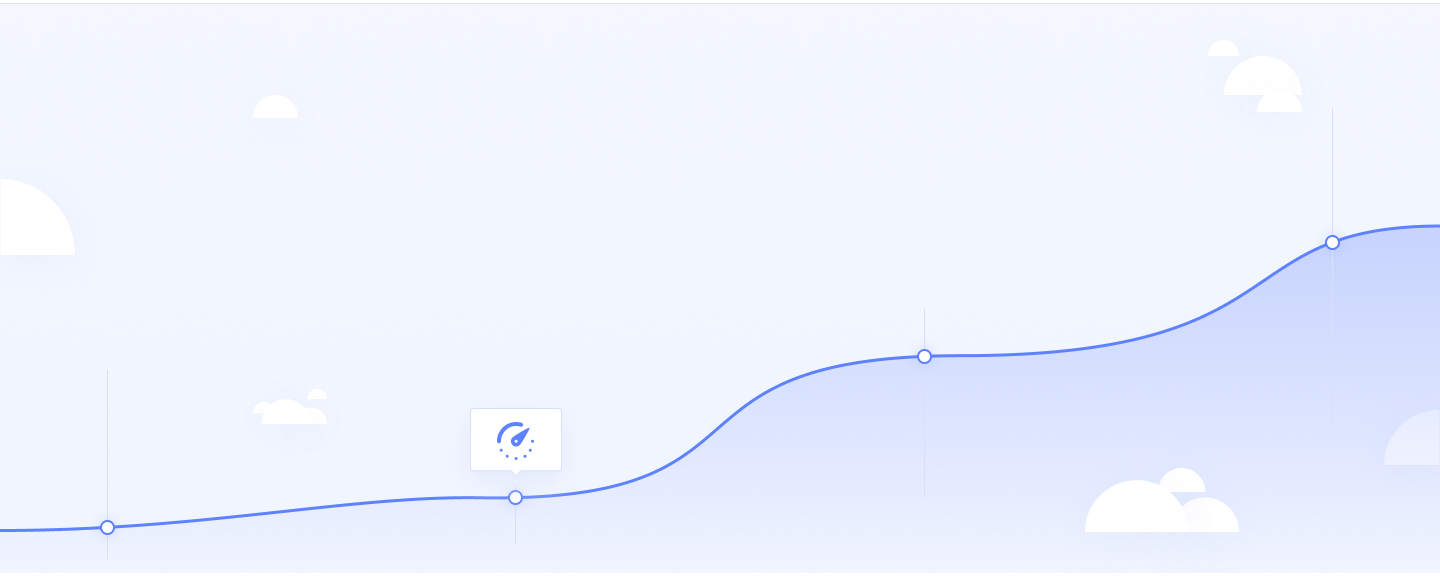
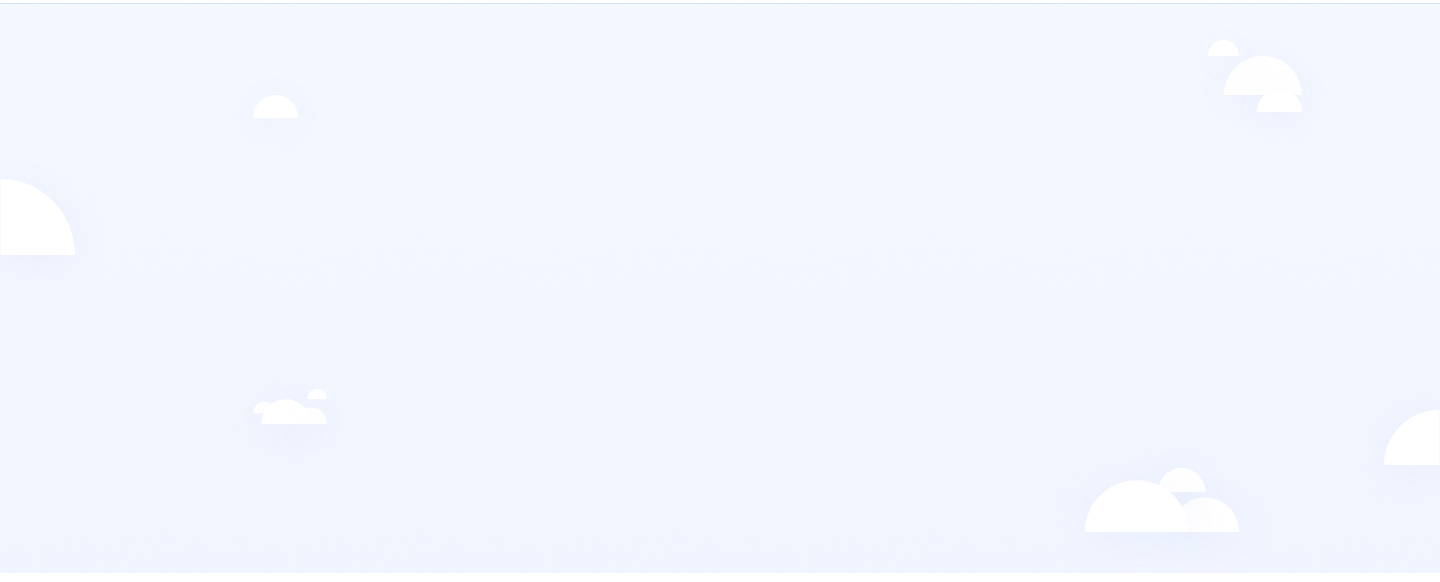
Done the stylization of advantages section

diff --git a/index.html b/index.html
@@ -59,30 +59,43 @@
         <a href="#" class="header__start-button button">Get started</a>
     </header>
     <main>
-        <section class="advantages">
-            <ul class="advantages__slider-list">
-                <li class="advantages__item">
-                    <span class="advantage__slogan">Plan your life</span>
-                    <h2 class="advantage__name">Increase your productivity</h2>
-                    <p class="advantage__description">Brute laoreet efficiendi id his, ea illum nonumes luptatum pro. Usu atqui laudem an, insolens gubergren similique est cu. Et vel modus congue vituperata.</p>
-                </li>
-                <li class="advantages__item" hidden>
-                    <span class="advantage__slogan">Plan your life</span>
-                    <h2 class="advantage__name">Increase your productivity</h2>
-                    <p class="advantage__description">Brute laoreet efficiendi id his, ea illum nonumes luptatum pro. Usu atqui laudem an, insolens gubergren similique est cu. Et vel modus congue vituperata.</p>
-                </li>
-                <li class="advantages__item" hidden>
-                    <span class="advantage__slogan">Plan your life</span>
-                    <h2 class="advantage__name">Increase your productivity</h2>
-                    <p class="advantage__description">Brute laoreet efficiendi id his, ea illum nonumes luptatum pro. Usu atqui laudem an, insolens gubergren similique est cu. Et vel modus congue vituperata.</p>
-                </li>
-            </ul>
-            <ul class="advantages__slider__buttons-list">
-                <li class="buttons__item"><button aria-label="1"></button></li>
-                <li class="buttons__item"><button aria-label="2"></button></li>
-                <li class="buttons__item"><button aria-label="3"></button></li>
-            </ul>
-        </section>
+        <div class="advantages__wrap wrap">
+            <section class="advantages">
+                <ul class="advantages__slider-list">
+                    <li class="advantages__item">
+                        <span class="advantage__slogan">Plan your life</span>
+                        <h2 class="advantage__name">Increase your <b>productivity</b></h2>
+                        <p class="advantage__description">Brute laoreet efficiendi id his, ea illum nonumes luptatum pro. Usu atqui laudem an, insolens gubergren similique est cu. Et vel modus congue vituperata.</p>
+                        <a href="#" class="advantage__button" aria-label="start"></a>
+                    </li>
+                    <li class="advantages__item" hidden>
+                        <span class="advantage__slogan">Plan your life</span>
+                        <h2 class="advantage__name">Increase your productivity</h2>
+                        <p class="advantage__description">Brute laoreet efficiendi id his, ea illum nonumes luptatum pro. Usu atqui laudem an, insolens gubergren similique est cu. Et vel modus congue vituperata.</p>
+                        <a href="#" class="advantage__button">
+                            <svg width="10" height="11" viewBox="0 0 10 11" fill="none" xmlns="http://www.w3.org/2000/svg">
+                                <path d="M9.23077 4.17675C10.2564 4.76486 10.2564 6.23514 9.23077 6.82325L2.30769 10.793C1.28205 11.3811 0 10.646 0 9.46976V1.53024C0 0.354015 1.28205 -0.381125 2.30769 0.206988L9.23077 4.17675Z" fill="#5E81FF"/>
+                            </svg>
+                        </a>
+                    </li>
+                    <li class="advantages__item" hidden>
+                        <span class="advantage__slogan">Plan your life</span>
+                        <h2 class="advantage__name">Increase your productivity</h2>
+                        <p class="advantage__description">Brute laoreet efficiendi id his, ea illum nonumes luptatum pro. Usu atqui laudem an, insolens gubergren similique est cu. Et vel modus congue vituperata.</p>
+                        <a href="#" class="advantage__button">
+                            <svg width="10" height="11" viewBox="0 0 10 11" fill="none" xmlns="http://www.w3.org/2000/svg">
+                                <path d="M9.23077 4.17675C10.2564 4.76486 10.2564 6.23514 9.23077 6.82325L2.30769 10.793C1.28205 11.3811 0 10.646 0 9.46976V1.53024C0 0.354015 1.28205 -0.381125 2.30769 0.206988L9.23077 4.17675Z" fill="#5E81FF"/>
+                            </svg>
+                        </a>
+                    </li>
+                </ul>
+                <ul class="advantages__slider__buttons-list">
+                    <li class="buttons__item"><a href="#" class="slider-button active" aria-label="1"></a></li>
+                    <li class="buttons__item"><a href="#" class="slider-button" aria-label="2"></a></li>
+                    <li class="buttons__item"><a href="#" class="slider-button" aria-label="3"></a></li>
+                </ul>
+            </section>
+        </div>
         <section class="customers">
             <ul class="customers__list">
                 <li class="customers__item" aria-label="bitbucket">

diff --git a/style.css b/style.css
@@ -37,8 +37,29 @@ li {
 
 ul {
     padding: 0;
+    margin: 0;
 }
 
+.wrap {
+    width: 100%;
+}
+
+.slider-button {
+    display: block;
+    width: 8px;
+    height: 8px;
+    padding: 0;
+    margin-right: 12px;
+
+    background-color: #D1D6E3;
+    border: none;
+    border-radius: 50%;
+}
+
+.slider-button:hover,
+.slider-button:active {
+    background-color: #5E81FE;
+}
 
 /* header */
 
@@ -113,4 +134,91 @@ ul {
 .main-header .header__start-button:hover {
     color: #D2E1FF;
     background-color: #5E81FE;
+}
+
+/* advantages */
+
+.advantages {
+    margin: auto;
+    width: 1440px;
+    min-height: 570px;
+}
+
+.advantages__wrap{
+    background-color: #fff;
+    background-image: url("img/header-back.png");
+    background-repeat: no-repeat;
+    background-size: cover;
+}
+
+.advantages .advantages__item{
+    padding-top: 92px;
+}
+
+.advantages .advantage__slogan {
+    margin-left: 673px;
+
+    text-transform: uppercase;
+    font-size: 10px;
+    font-weight: bolder;
+    color: #3D4F9F;
+}
+
+.advantages .advantage__name {
+    margin: 0;
+    margin-top: 12px;
+    margin-left: 420px;
+    width: 600px;
+
+    text-align: center;
+    font-size: 48px;
+    font-weight: lighter;
+}
+
+.advantages .advantage__description {
+    width: 502px;
+    margin-left: 469px;
+    margin-top: 22px;
+
+    line-height: 191%;
+    text-align: center;
+}
+
+.advantages .advantage__button {
+    display: block;
+    width: 52px;
+    height: 52px;
+    margin-left: 694px;
+    position: relative;
+
+    border-radius: 50%;
+    background-color: #fff;
+}
+
+.advantages .advantage__button::before {
+    content: "";
+    position: absolute;
+    width: 10px;
+    height: 11px;
+    top: 20px;
+    left: 20px;
+    
+    background-image: url("img/play.svg");
+}
+
+.advantages .advantage__button:hover,
+.advantages .advantage__button:active {
+    background-color: #5E81FE;
+}
+
+
+.advantages .advantage__button:hover::before,
+.advantages .advantage__button:active::before {
+    background-image: url("img/play-active.svg");
+}
+
+.advantages__slider__buttons-list {
+    display: flex;
+    margin-left: 696px;
+    margin-top: 180px;
 }
